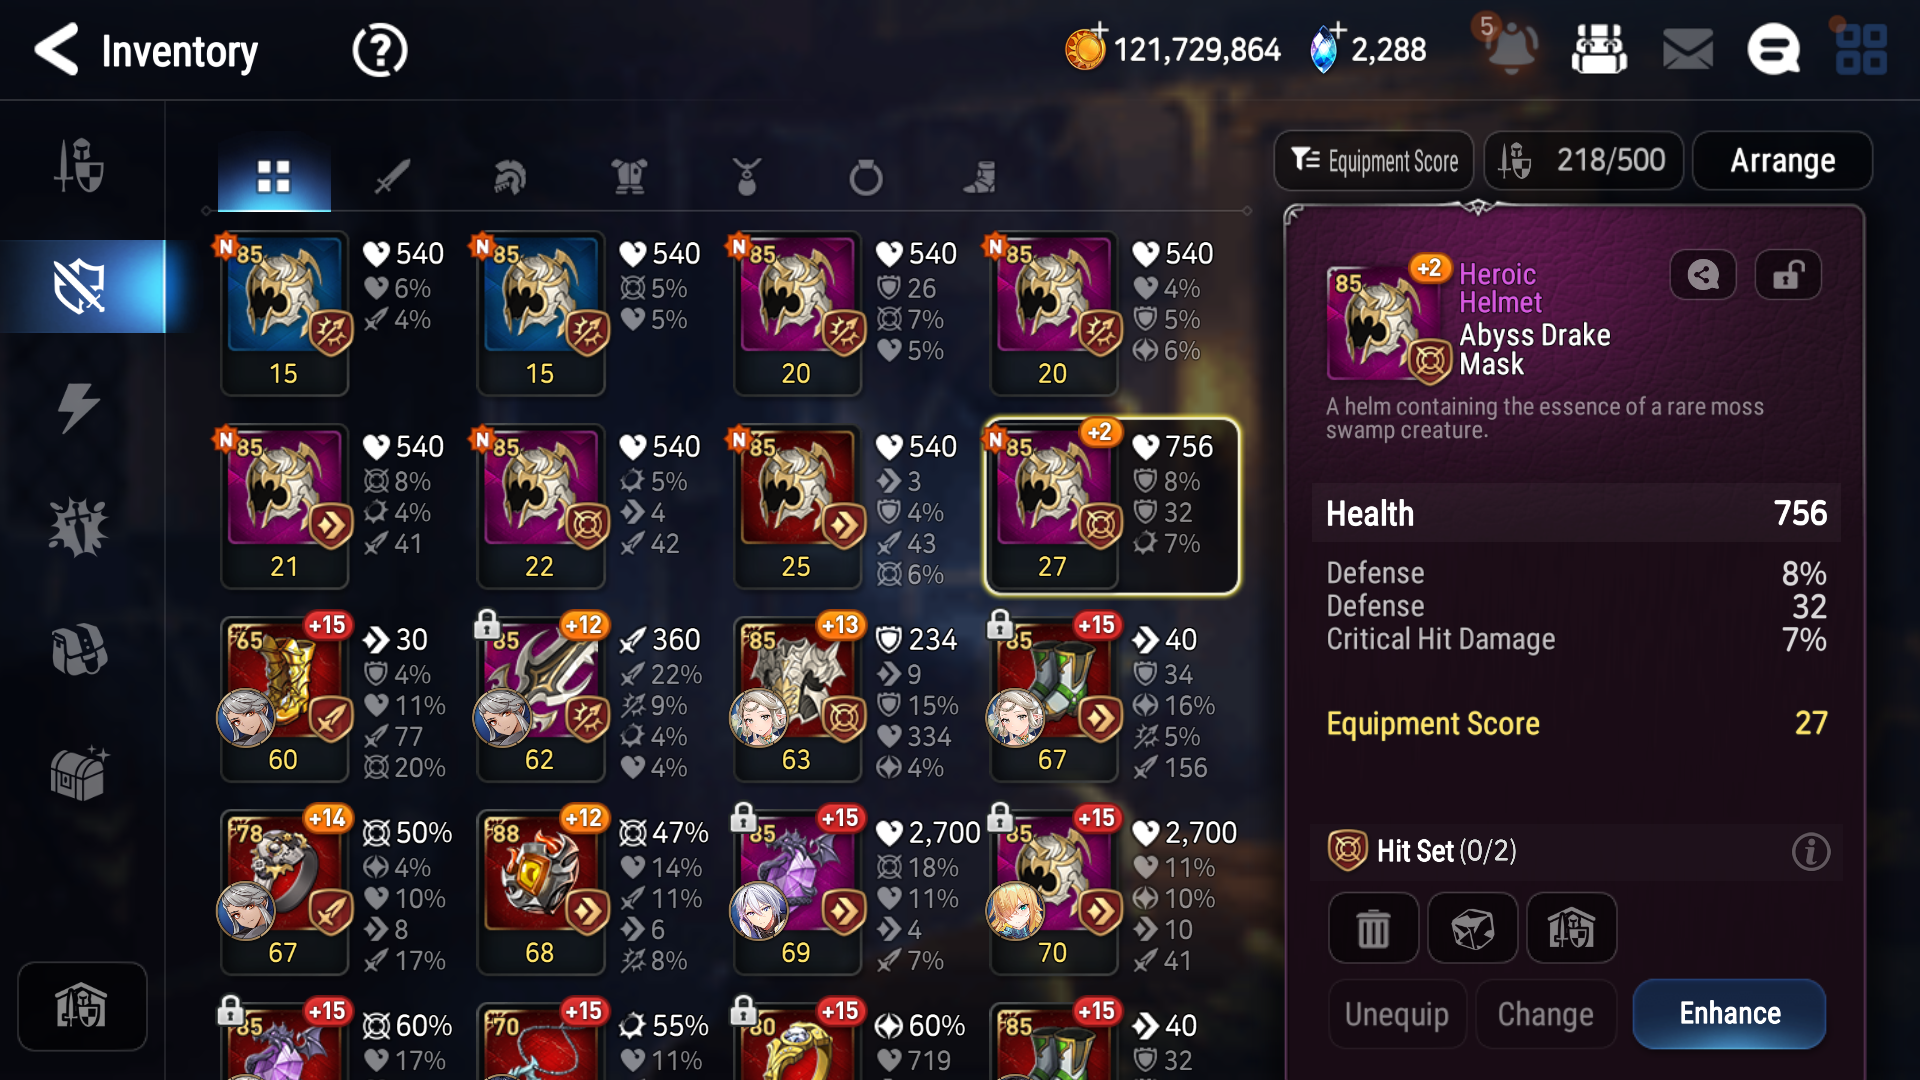
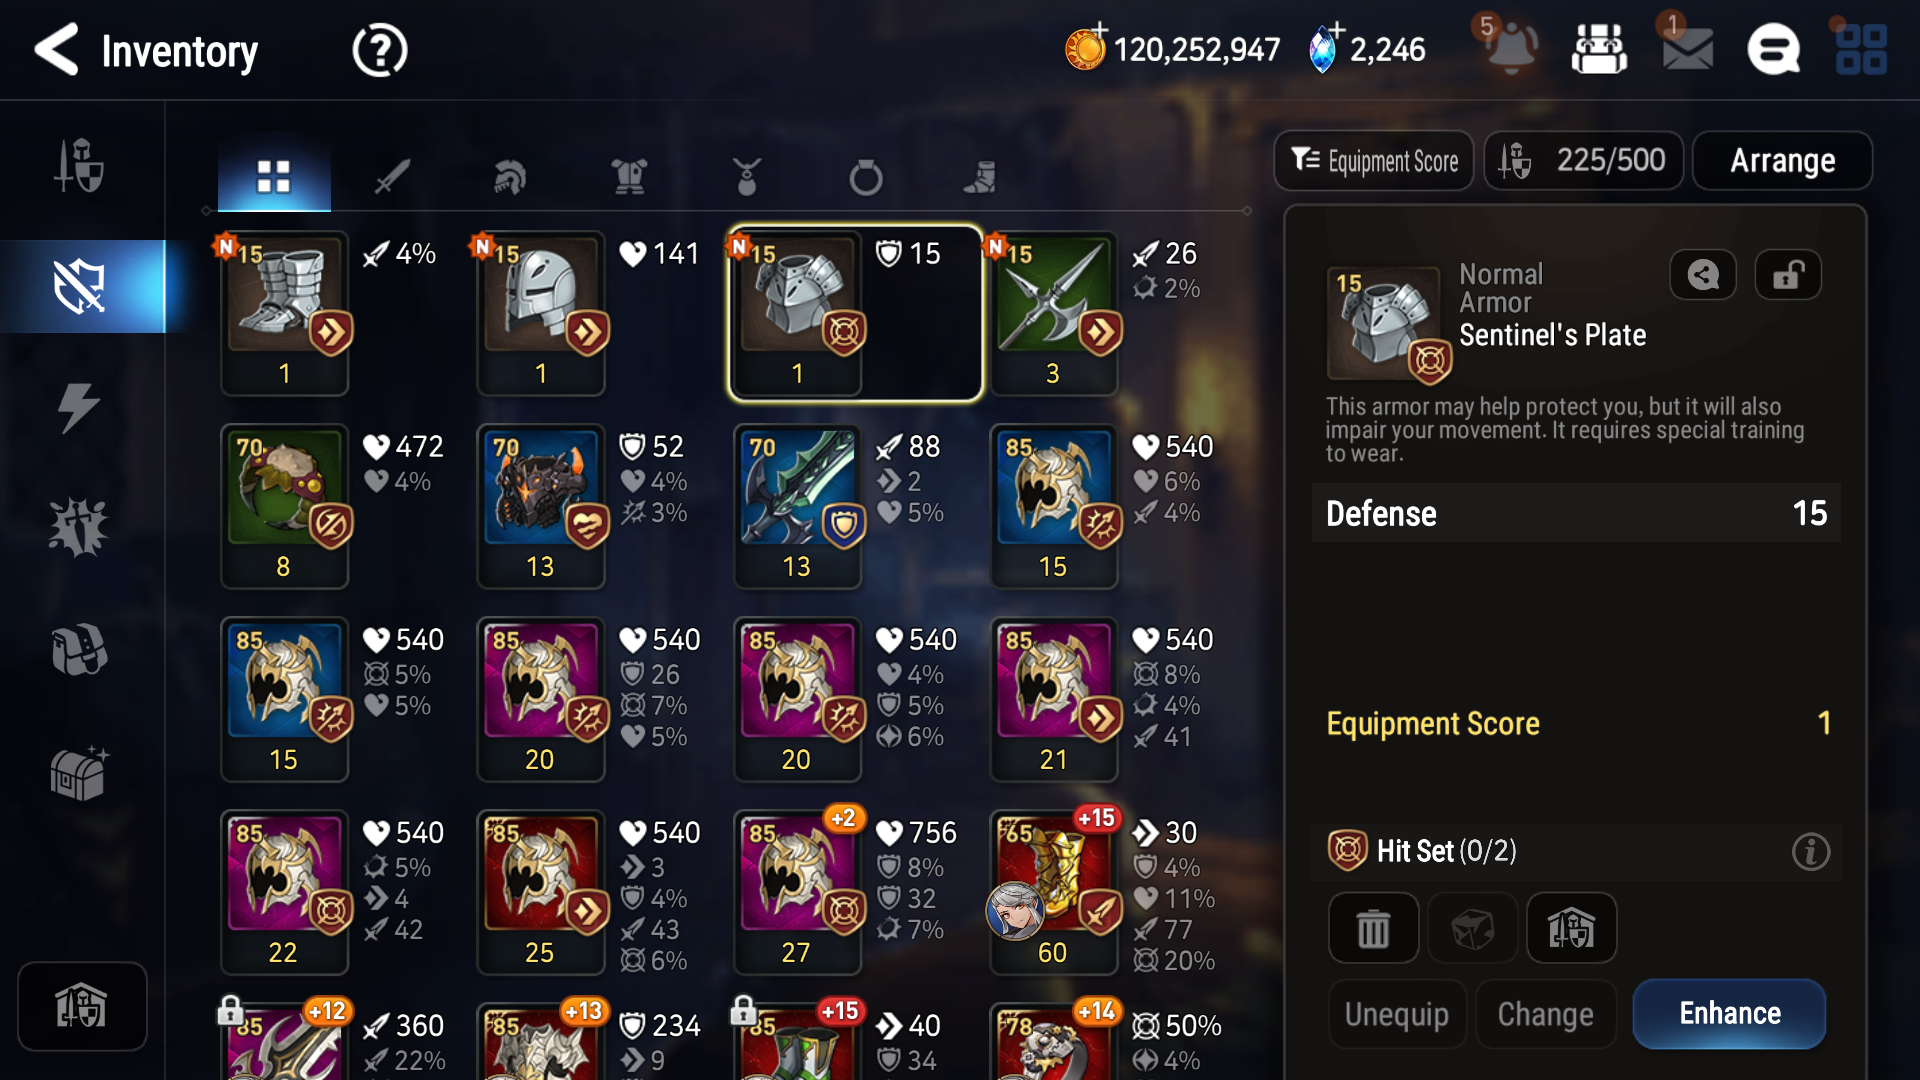
creation of templates for sets, rarity, enhance, and slots

diff --git a/src/recognizer_closed.py b/src/recognizer_closed.py
@@ -167,7 +167,7 @@ class ClosedSetRecognizer:
         slot_crop = _crop(img, cap.regions["slot"])
         rarity_crop = _crop(img, cap.regions["rarity"])
         set_crop = _crop(img, cap.regions["set"])
-        
+
         enh_crop = _crop(img, cap.regions["enhance"])
         enh_pred, e = self.enhance_rec.predict(enh_crop)
         errs.extend(e)
@@ -186,14 +186,12 @@ class ClosedSetRecognizer:
         if slot_pred is None or rarity_pred is None or set_pred is None:
             return None, errs
 
-        # --- TODO: numeric/stat fields (still closed-set) ---
-        # Implement in this order:
-        # 1) enhance: templates for +0..+15 OR digit templates + parser
-        # 2) ilevel: digit templates + parser
-        # 3) main_stat/sub*_stat: stat token templates (closed)
-        # 4) values: digit templates + parser
+        print("slot:", slot_pred)
+        print("rarity:", rarity_pred)
+        print("set:", set_pred)
+        print("enhance:", enhance, "| raw:", enh_pred)
 
-        errs.append(RecError("enhance", "not implemented"))
+        # enhance is implemented, so don't append a not-implemented error for it
         errs.append(RecError("ilevel", "not implemented"))
         errs.append(RecError("main_stat", "not implemented"))
         errs.append(RecError("main_value", "not implemented"))

diff --git a/obsidian files/journal of project progress.md b/obsidian files/journal of project progress.md
@@ -1,3 +1,5 @@
 3/19
 - so i've started the shift from OCR to a closed classifier system. i just now begun taking screenshots using the dump system created earlier and now i am cropping images for enhance one by one.... theres no escaping doing some manual work i suppose
 - i didnt realize/forgot the dumps happened even if recognition failed so i had to ask chatgpt to explain that part of the code to me again
+- im just doing template creation... is this really the right way to learn about this pipeline?
+- took most of the day's productivity, but i have finished all sets, rarity, and enhance templates. they are good confidence and work across multiple items. itemlevel might be hard since items can be locked and block most of the itemlevel display,  but perhaps it can be procured with another method by calculating mainstat vs enhancement level with a chart
